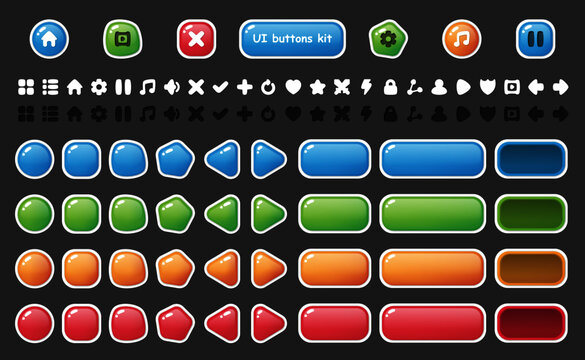
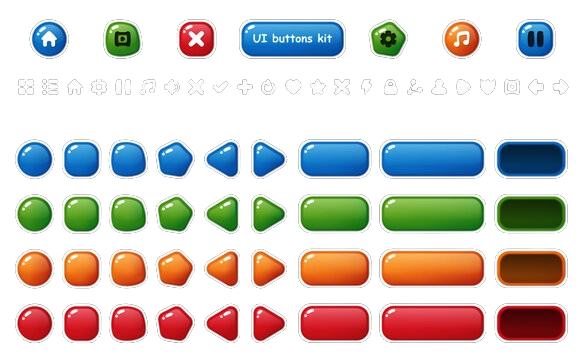
UIbuttonsKit - remove background; initial PLAY button layout

diff --git a/components/SongButton.vue b/components/SongButton.vue
@@ -5,7 +5,7 @@ defineProps(['song', 'selected']);
 
 <template>
   <div class="song-button">
-    PLAY
+    <div>PLAY</div>
   </div>
 
 
@@ -28,7 +28,15 @@ $left-bar-color: burlywood
   .song-button
     width: 80px
     height: 46px
-    background: url(/controls/UIbottonsKit-grid20.png) -296px -191px
+    background: url(/controls/UIbottonsKit.png) -296px -138px
+    text-align: center
+    vertical-align: middle
+
+    div
+      padding-top: 10px
+      color: antiquewhite
+      @apply font-bold
+
 
   button
     width: 20%
